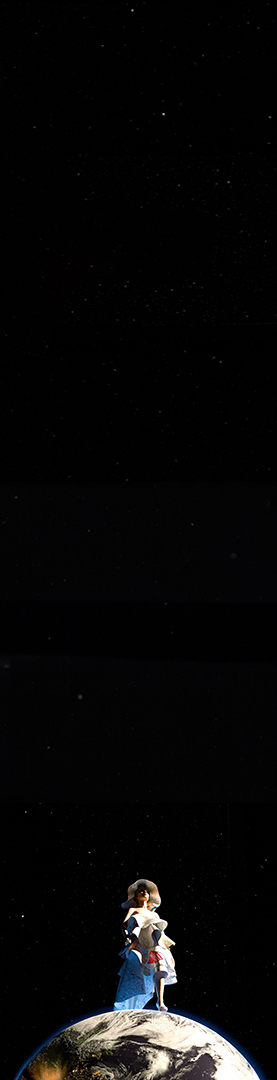
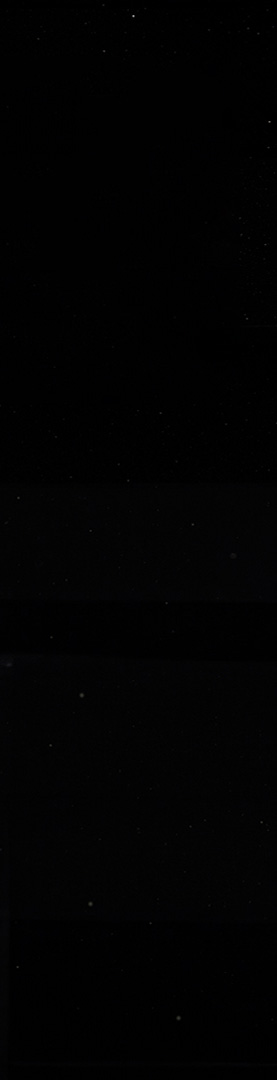
Footer design structure changes

Changed region(s): [[0.0578, 0.7944, 0.9531, 1.0]]

diff --git a/styles/footer-styles.css b/styles/footer-styles.css
@@ -90,75 +90,32 @@
 .footer-container .footer-bg{
     position: absolute;
     width: 100%;
-    height: 190vh;
+    height: 100%;
     top: 0;
     left: 0;
     z-index: 5;
-    background-color: black;
+    /* background-color: black; */
+    background-image: url(../assets/images/footerbg.jpg);
 }
 .footer-container .footer-bg img{
-    width: 100%;
-    height: 100%;
-    /* object-fit: cover; */
-}
+    position: absolute;
+    bottom: 0;
+    left: 50%;
+    transform: translateX(-50%);
+    width: 350px;
+    height: 350px;
+} 
 
-
-@media (min-width: 769px) and (max-width: 1600px) {
-    .footer-container{
-        flex-direction: row;
-        position: relative;
-        width: 100%;
-        height: 30vh;
-        display: flex;
-        padding-left: 0px;
-        padding-top: 0px;
-        justify-content: end;
-        gap: 30px;
-        color: white;
-        background-color: aquamarine;
-    }
-
-    .footer-container .footer-bg {
-        position: absolute;
-        width: 100%;
-        height: auto;
-        top: 0;
-        left: 0;
-        z-index: 5;
-        background-color: black;
-    }
-    .footer-container .footer-sections:nth-child(3) .footer-icons{
-        display: flex;
-        flex-direction: row;
-    }
-    .footer-container .footer-sections {
-        position: relative;
-        z-index: 10;
-        display: flex;
-        gap: 0px;
-        flex-direction: column;
-        top: 30px;
-        margin-right: 50px;
-    }
-}
 
 @media (min-width: 481px) and (max-width: 768px) {
 
     .footer-container{
+        height: 35vh;
         flex-direction: row;
-        position: relative;
-        width: 100%;
-        height: 30vh;
-        display: flex;
-        padding-left: 0px;
-        padding-top: 0px;
         justify-content: end;
-        gap: 30px;
-        color: white;
-        background-color: aquamarine;
     }
 
-    .footer-container .footer-bg {
+    /* .footer-container .footer-bg {
         position: absolute;
         width: 100%;
         height: auto;
@@ -166,7 +123,7 @@
         left: 0;
         z-index: 5;
         background-color: black;
-    }
+    } */
     .footer-container .footer-sections:nth-child(3) .footer-icons{
         display: flex;
         flex-direction: row;
@@ -198,6 +155,11 @@
         position: relative;
     } */
 
+    .footer-container .footer-sections .footer-input {
+        width: 130px;
+        height: 42px;
+    }
+
 
 
     .footer-container .footer-sections input {
@@ -225,4 +187,118 @@
         font-family: 'helveticaThin';
         font-size: 10px;
     }
+
+    .footer-container .footer-bg img{
+        position: absolute;
+        bottom: 0;
+        left: 20%;
+        /* transform: translateX(-50%); */
+        width: 250px;
+        height: 250px;
+    } 
+
+
+
+}
+
+
+@media (min-width: 769px) and (max-width: 1024px) {
+    .footer-container{
+        flex-direction: row;
+        position: relative;
+        width: 100%;
+        height: 45vh;
+        display: flex;
+        padding-left: 0px;
+        padding-top: 0px;
+        justify-content: end;
+        gap: 30px;
+        color: white;
+        background-color: aquamarine;
+    }
+
+    
+
+    /* .footer-container .footer-bg {
+        position: absolute;
+        width: 100%;
+        height: auto;
+        top: 0;
+        left: 0;
+        z-index: 5;
+        background-color: black;
+    } */
+    .footer-container .footer-sections:nth-child(3) .footer-icons{
+        display: flex;
+        flex-direction: row;
+    }
+    .footer-container .footer-sections {
+        position: relative;
+        z-index: 10;
+        display: flex;
+        gap: 0px;
+        flex-direction: column;
+        top: 30px;
+        margin-right: 50px;
+    }
+
+    .footer-container .footer-bg img{
+        position: absolute;
+        bottom: 0;
+        left: 15%;
+        /* transform: translateX(-50%); */
+        width: 300px;
+        height: 300px;
+    } 
+}
+
+
+@media (min-width: 1025px) and (max-width: 1600px) {
+    .footer-container{
+        flex-direction: row;
+        position: relative;
+        width: 100%;
+        height: 35vh;
+        display: flex;
+        padding-left: 0px;
+        padding-top: 0px;
+        justify-content: end;
+        gap: 30px;
+        color: white;
+        background-color: aquamarine;
+    }
+
+    
+
+    /* .footer-container .footer-bg {
+        position: absolute;
+        width: 100%;
+        height: auto;
+        top: 0;
+        left: 0;
+        z-index: 5;
+        background-color: black;
+    } */
+    .footer-container .footer-sections:nth-child(3) .footer-icons{
+        display: flex;
+        flex-direction: row;
+    }
+    .footer-container .footer-sections {
+        position: relative;
+        z-index: 10;
+        display: flex;
+        gap: 0px;
+        flex-direction: column;
+        top: 30px;
+        margin-right: 115px;
+    }
+
+    .footer-container .footer-bg img{
+        position: absolute;
+        bottom: 0;
+        left: 20%;
+        /* transform: translateX(-50%); */
+        width: 400px;
+        height: 400px;
+    } 
 }

diff --git a/partials/footer.html b/partials/footer.html
@@ -85,7 +85,7 @@
                 </div>
             </div>
             <div class="footer-bg">
-                <img id="footerbg" src="../assets/images/footerbg.jpg"/>
+                <img src="../assets/images/charectorimg.png" alt="">
             </div>
         </div>
     </footer>

diff --git a/index.html b/index.html
@@ -28,7 +28,7 @@
 
     <!--=================Footer section=============-->
 
-    <footer-sec></footer-sec>
+    <!-- <footer-sec></footer-sec> -->
 
     <!--=====================================-->
 
